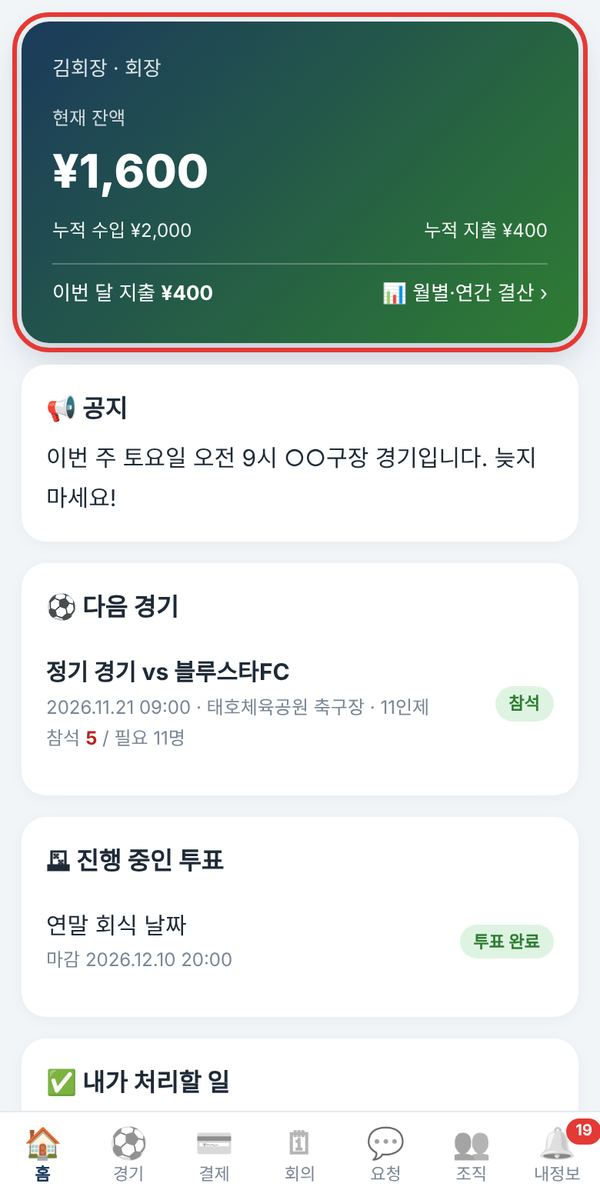
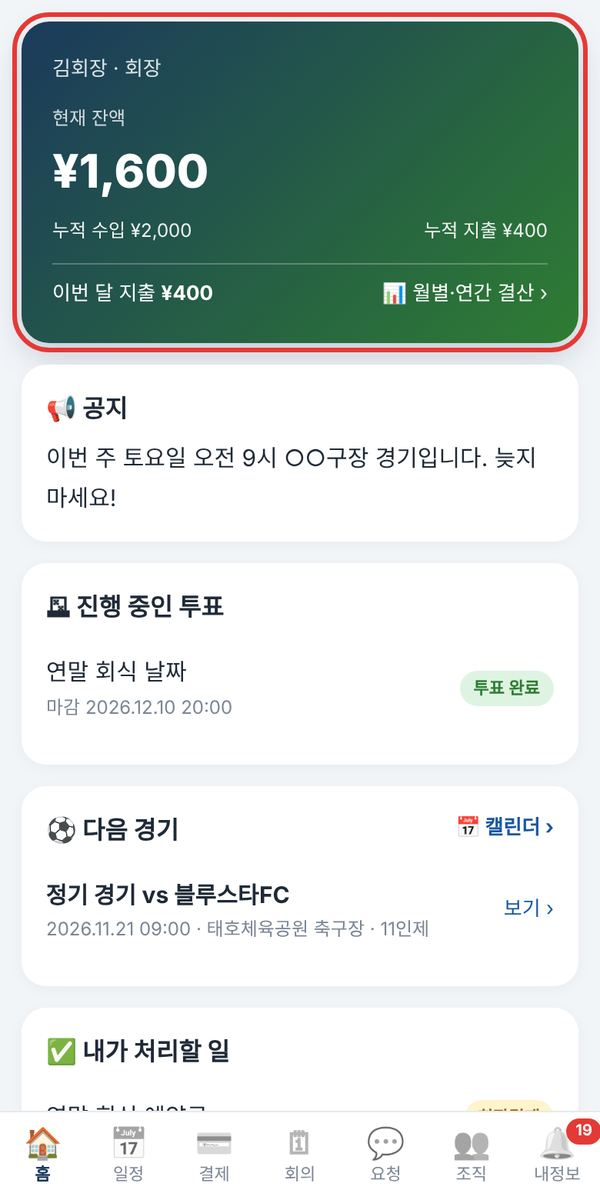
경기 일정 캘린더, 출석 체크 숨김(ATTEND 스위치)
Claude-Session: https://claude.ai/code/session_015HE4XVwfqT5PtJWveADa8Y

diff --git a/index.html b/index.html
@@ -82,7 +82,7 @@ nav a.on{color:var(--navy);font-weight:700}nav a.on b{filter:none;opacity:1}
 <div id="app"></div>
 <nav id="nav" style="display:none"><div class="in">
   <a href="#/" data-t="home"><b>🏠</b>홈</a>
-  <a href="#/matches" data-t="match"><b>⚽</b>경기</a>
+  <a href="#/matches" data-t="match"><b>📅</b>일정</a>
   <a href="#/pays" data-t="pay"><b>💳</b>결제</a>
   <a href="#/meets" data-t="meet"><b>🗓</b>회의</a>
   <a href="#/reqs" data-t="req"><b>💬</b>요청</a>
@@ -93,7 +93,7 @@ nav a.on{color:var(--navy);font-weight:700}nav a.on b{filter:none;opacity:1}
 <button id="lang" data-nt style="position:fixed;top:10px;right:10px;z-index:9;border:0;border-radius:99px;padding:6px 12px;font:600 13px/1.2 inherit;background:rgba(255,255,255,.92);color:#1B3A5C;box-shadow:0 2px 8px rgba(0,0,0,.15)"></button>
 <script>
 // ───── 중국어 번역 (한국어 ↔ 中文) ─────
-const I18N = {"홈": "首页", "경기": "比赛", "결제": "付款", "회의": "会议", "요청": "建议", "조직": "组织", "내정보": "我的", "축구회": "足球会", "회비 · 결제 · 회의 · 회칙": "会费 · 付款 · 会议 · 会规", "로그인": "登录", "로그아웃": "退出登录", "가입 신청": "申请加入", "이름 (실명)": "姓名（实名）", "비밀번호 (4자 이상)": "密码（至少4位）", "비밀번호 확인": "确认密码", "예) 김민수": "例）张伟", "비밀번호를 잊었다면 회장에게 초기화를 요청하세요.": "忘记密码请联系会长重置。", "한 번 로그인하면 로그아웃 전까지 자동으로 로그인됩니다. 다른 기기에서 로그인하면 이전 기기는 로그아웃됩니다.": "登录一次后，在退出前会自动登录。在其他设备登录时，之前的设备会自动退出。", "가입 신청 후 회장이 승인하면 로그인할 수 있습니다. 첫 가입자는 자동으로 회장이 됩니다.": "申请后经会长批准即可登录。第一个注册的人自动成为会长。", "가입 신청 완료! 회장 승인 후 로그인하세요": "申请完成！会长批准后即可登录", "비밀번호가 서로 다릅니다": "两次密码不一致", "📖 사용 설명서": "📖 使用说明（韩文）", "불러오는 중…": "加载中…", "불러오지 못했습니다": "加载失败", "다시 시도": "重试", "인터넷 연결을 확인하세요": "请检查网络连接", "서버가 잠시 응답하지 않습니다. 잠시 후 다시 시도하세요": "服务器暂时无响应，请稍后再试", "요청 오류 (": "请求错误 (", "업로드 중…": "上传中…", "업로드 완료": "上传完成", "업로드 실패 (": "上传失败 (", "파일이 20MB를 넘습니다": "文件超过20MB", "복사했습니다. 위챗 단톡방에 붙여넣으세요": "已复制，请粘贴到微信群", "아래 글을 길게 눌러 복사하세요": "长按下面的文字复制", "닫기": "关闭", "위챗 단톡방 공유 문구 복사": "复制分享文字（微信群）", "처리 기록": "处理记录", "처리 완료": "处理完成", "저장했습니다": "已保存", "삭제": "删除", "열기": "打开", "보기 ›": "查看 ›", "전체 ›": "全部 ›", "전체": "全部", "내용": "内容", "제목": "标题", "상태": "状态", "번호": "编号", "회장": "会长", "부회장": "副会长", "총무": "总务", "감독": "主教练", "코치": "教练", "회원": "会员", "본인": "本人", "👥 운영진": "👥 管理团队", "회장결재": "待会长审批", "부회장결재": "待副会长审批", "부회장검토": "待副会长审核", "지급대기": "待付款", "지급완료": "已付款", "승인대기": "待审批", "승인": "批准", "반려": "驳回", "접수": "已提交", "처리중": "处理中", "완료": "已完成", "참석": "出席", "불참": "缺席", "미정": "待定", "수입": "收入", "지출": "支出", "입금": "入账", "신청": "申请", "대기": "等待", "검토 중": "审核中", "건너뜀": "跳过", "결재": "审批", "구장": "场地", "음료": "饮料", "장비": "装备", "회식": "聚餐", "유니폼": "球衣", "기타": "其他", "회비": "会费", "찬조": "赞助", "11인제": "11人制", "9인제": "9人制", "8인제": "8人制", "7인제": "7人制", "6인제": "6人制", "5인제 (풋살)": "5人制（室内）", "결제안 신청": "提交付款申请", "수입 등록": "登记收入", "안건 상신": "提交议题", "지급": "付款", "마감": "截止", "현재 잔액": "当前余额", "총 수입": "总收入", "총 지출": "总支出", "📢 공지": "📢 公告", "✅ 내가 처리할 일": "✅ 待我处理", "🗓 최근 확정 회의": "🗓 最近确定的会议", "💸 최근 지출": "💸 最近支出", "아직 확정된 회의가 없습니다": "还没有确定的会议", "아직 지출 내역이 없습니다": "还没有支出记录", "⚽ 다음 경기": "⚽ 下一场比赛", "🗳 진행 중인 투표": "🗳 进行中的投票", "투표 완료": "已投票", "투표하기 ›": "去投票 ›", "출석 체크 ›": "签到 ›", "체크 ›": "签到 ›", "+ 결제안": "+ 付款申请", "+ 수입 등록": "+ 登记收入", "내역이 없습니다": "没有记录", "💰 수입 등록": "💰 登记收入", "📝 결제안 신청": "📝 付款申请", "예) 11월 회비": "例）11月会费", "예) 11월 셋째 주 구장 대여": "例）11月第三周场地租赁", "항목": "类别", "금액 (위안)": "金额（元）", "메모": "备注", "사유": "事由", "상세 내용": "详细内容", "입금 캡처": "入账截图", "영수증·견적": "收据·报价", "사진": "照片", "결제안 올리기": "提交付款申请", "결재 순서: 회장 → 부회장 → 총무(지급). 올리면 회장에게 알림이 갑니다.": "审批顺序：会长 → 副会长 → 总务（付款）。提交后会通知会长。", "등록 완료": "登记完成", "작성": "提交", "반려 사유:": "驳回理由：", "🧾 송금 증빙": "🧾 转账凭证", "결재라인": "审批流程", "총무 지급": "总务付款", "회장 결재": "会长审批", "부회장 결재": "副会长审批", "개인 위챗으로 송금한 뒤 송금 캡처를 첨부하고 지급완료를 누르세요.": "用个人微信转账后，上传转账截图并点击“已付款”。", "송금 캡처를 첨부하세요": "请上传转账截图", "지급완료 처리할까요?": "确认已付款吗？", "승인할까요?": "确认批准吗？", "반려 사유를 입력하세요": "请输入驳回理由", "결제안은 운영진만 올릴 수 있습니다": "只有管理团队可以提交付款申请", "+ 회의 안건": "+ 会议议题", "등록된 회의가 없습니다": "没有会议", "🗓 회의 안건 올리기": "🗓 提交会议议题", "회의 제목": "会议标题", "회의 날짜": "会议日期", "예) 12월 정기 운영회의": "例）12月例行管理会议", "안건 내용": "议题内容", "첨부 파일 (사진·PDF·문서)": "附件（照片·PDF·文档）", "+ 파일 첨부": "+ 添加附件", "결재 순서: 부회장 → 회장. 회장이 승인하면 전체 회원에게 공개되고 알림이 갑니다.": "审批顺序：副会长 → 会长。会长批准后向全体会员公开并通知。", "결재 올리기": "提交审批", "결재 요청 완료": "已提交审批", "안건": "议题", "📝 회의록": "📝 会议记录", "📝회의록": "📝会议记录", "‹ 이전": "‹ 上一页", "누적 수입": "累计收入", "누적 지출": "累计支出", "이번 달 지출": "本月支出", "📊 월별·연간 결산 ›": "📊 月度·年度结算 ›", "📊 월별·연간 결산 보기": "📊 查看月度·年度结算", "📊 결산": "📊 结算", "연간": "全年", "기간 지출": "期间支出", "기간 수입": "期间收入", "기간 순액": "期间净额", "💰 잔액 흐름": "💰 余额变化", "전기 이월": "上期结转", "기말 잔액": "期末余额", "📂 항목별 지출": "📂 分类支出", "이 기간 지출이 없습니다": "该期间没有支出", "월을 누르면 그 달 내역을 볼 수 있습니다.": "点击月份可查看当月明细。", "이 기간 내역 엑셀(CSV) 내려받기": "下载该期间明细（CSV）", "📤 결산 요약 복사 (위챗에 공유)": "📤 复制结算摘要（分享到微信）", "지급완료된 건만, 지급한 날짜 기준으로 계산합니다. 전기 이월 = 이 기간 이전까지의 잔액.": "只统计已付款的项目，按付款日期计算。上期结转 = 该期间之前的余额。", "년 전체": "年 全年", " 결산": " 结算", "내역 (": "明细 (", "다음 ›": "下一页 ›", "이동 ›": "前往 ›", "작성·수정": "编写·修改", "아직 회의록이 없습니다": "还没有会议记录", "회의 결과를 입력하세요": "请输入会议结果", "저장하고 회원에게 알림": "保存并通知会员", "회의록 저장": "会议记录已保存", "회의 안건은 운영진만 올릴 수 있습니다": "只有管理团队可以提交会议议题", "🗳 투표": "🗳 投票", "아직 투표가 없습니다": "还没有投票", "+ 투표 만들기": "+ 发起投票", "투표 제목": "投票标题", "예) 연말 회식 날짜": "例）年末聚餐日期", "선택지 (한 줄에 하나씩)": "选项（每行一个）", "마감 시간 (선택)": "截止时间（可选）", "투표 시작하고 회원에게 알림": "开始投票并通知会员", "기명 투표입니다. 누가 무엇을 골랐는지 모든 회원에게 보입니다.": "这是记名投票，所有会员都能看到谁选了什么。", "투표를 시작했습니다": "投票已开始", "🗳 기명 투표": "🗳 记名投票", "마감됨": "已截止", "진행 중": "进行中", "결과": "结果", "하나를 골라 누르세요": "请选择一项", "내 선택 (다시 눌러 바꿀 수 있음)": "我的选择（可重新点击更改）", "모두 투표했습니다 🎉": "全部已投票 🎉", "🙋 아직 투표 안 한 사람 (": "🙋 未投票 (", "투표 마감하기": "截止投票", "회의로 돌아가기": "返回会议", "📤 투표 링크 복사 (위챗에 공유)": "📤 复制投票链接（分享到微信）", "투표했습니다": "已投票", "투표를 마감할까요? 마감 후에는 바꿀 수 없습니다.": "确定截止投票吗？截止后不能更改。", "마감했습니다": "已截止", "없는 투표입니다": "投票不存在", "🗳 투표해 주세요:": "🗳 请投票：", "명 참여": "人参与", "예정된 경기가 없습니다": "没有即将进行的比赛", "지난 경기": "往期比赛", "+ 경기 등록": "+ 登记比赛", "⚽ 경기 등록": "⚽ 登记比赛", "✏ 경기 수정": "✏ 修改比赛", "경기 이름": "比赛名称", "예) 정기 경기, 친선전": "例）例行比赛、友谊赛", "상대팀 (선택)": "对手（可选）", "예) ○○FC": "例）○○FC", "날짜·시작 시간": "日期·开始时间", "경기 방식": "比赛形式", "필요 인원 (명)": "所需人数", "구장 이름": "场地名称", "예) ○○체육공원 축구장": "例）○○体育公园足球场", "주소 (선택)": "地址（可选）", "예) ○○구 ○○로 123": "例）○○区○○路123号", "고덕지도 공유 링크 (선택)": "高德地图分享链接（可选）", "고덕지도 앱 → 장소 → 공유 → 링크 복사": "高德地图 → 地点 → 分享 → 复制链接", "링크를 비워 두면 구장 이름·주소로 고덕지도에서 자동 검색됩니다.": "不填链接时，会用场地名称和地址在高德地图自动搜索。", "출석 체크 마감 (선택, 비우면 경기 시작 때 마감)": "签到截止（可选，不填则比赛开始时截止）", "메모 (선택)": "备注（可选）", "예) 흰색·검은색 상의 준비, 8시 30분까지 도착": "例）准备白色·黑色上衣，8点30分前到达", "수정 저장": "保存修改", "등록하고 회원에게 알림": "登记并通知会员", "날짜·시간을 입력하세요": "请输入日期和时间", "수정했습니다": "已修改", "경기를 등록했습니다": "比赛已登记", "운영진만 경기를 등록할 수 있습니다": "只有管理团队可以登记比赛", "📍 구장": "📍 场地", "구장 미정": "场地待定", "🗺 고덕지도에서 위치 보기": "🗺 在高德地图查看位置", "✋ 출석 체크": "✋ 签到", "아직 응답 안 함": "尚未回复", "내 응답:": "我的回复：", "출석 체크가 마감되었습니다": "签到已截止", "출석 마감": "签到已截止", "경기 시작 때 마감": "比赛开始时截止", "✅ 참석": "✅ 出席", "❌ 불참": "❌ 缺席", "🤔 미정": "🤔 待定", "🙋 미응답": "🙋 未回复", "인원 충족 ✅": "人数已满 ✅", "명 부족": "人不足", "✏ 수정": "✏ 修改", "📤 출석 체크 링크 복사 (위챗에 공유)": "📤 复制签到链接（分享到微信）", "(으)로 체크했습니다": " 已签到", "이 경기를 삭제할까요? 출석 기록도 함께 지워집니다.": "确定删除这场比赛吗？签到记录也会一起删除。", "삭제했습니다": "已删除", "없는 경기입니다": "比赛不存在", "⚽ 출석 체크해 주세요:": "⚽ 请签到：", "정기 경기": "例行比赛", "/ 필요": "/ 需要", "· 필요": "· 需要", "현재 참석": "当前出席", "💬 요청사항": "💬 建议·请求", "운영진에게 건의·요청할 내용을 남겨 주세요. 운영진이 답변하면 알림이 갑니다.": "请给管理团队留下建议或请求。管理团队回复后会通知您。", "+ 요청하기": "+ 提交建议", "예) 토요일 경기 시간 변경 요청": "例）申请更改周六比赛时间", "자세한 내용": "详细内容", "보내기": "发送", "요청을 보냈습니다": "已发送", "아직 요청사항이 없습니다": "还没有建议", "답변 (운영진만 보이는 입력칸)": "回复（仅管理团队可见的输入框）", "답변 저장": "保存回复", "답변 ·": "回复 ·", "📜 회칙": "📜 会规", "아직 등록된 회칙이 없습니다": "还没有上传会规", "새 회칙으로 교체": "更换新会规", "회칙 파일 업로드": "上传会规文件", "회칙 등록 완료": "会规已上传", "운영진 정보가 없습니다": "没有管理团队信息", "⚽ 회원": "⚽ 会员", "🔔 알림": "🔔 通知", "알림이 없습니다": "没有通知", "📢 홈 공지": "📢 首页公告", "예) 이번 주 토요일 오전 9시 ○○구장": "例）本周六上午9点 ○○场地", "공지 저장": "保存公告", "🛠 회원 관리": "🛠 会员管理", "가입 승인 대기": "等待批准", "거절": "拒绝", "🤝 회장 인계": "🤝 会长交接", "새 회장을 선택하면 권한이 넘어가고 나는 일반 회원이 됩니다.": "选择新会长后，权限会转交，我将成为普通会员。", "새 회장 선택": "选择新会长", "회장 인계하기": "交接会长", "새 회장을 선택하세요": "请选择新会长", "인계 완료": "交接完成", "사이트 관리 계정도 넘겨주세요 (고장 대비)": "也请交接网站管理账号（以防故障）", "관리 메모 (회장에게만 보이고 인계 시 함께 넘어감)": "管理备注（仅会长可见，交接时一起转交）", "예) GitHub 조직 이름, Supabase 프로젝트 이름, 비상 연락처": "例）GitHub组织名、Supabase项目名、紧急联系方式", "메모 저장": "保存备注", "⚙ 설정": "⚙ 设置", "결제 내역 엑셀(CSV) 내려받기": "下载付款记录（CSV）", "비밀번호 변경": "修改密码", "로그아웃할까요?": "确定退出登录吗？", "💡 브라우저 메뉴의": "💡 在浏览器菜单中点击", "홈 화면에 추가": "添加到主屏幕", "를 누르면 앱처럼 쓸 수 있습니다.": "，就能像App一样使用。", "현재 비밀번호": "当前密码", "새 비밀번호 (4자 이상)": "新密码（至少4位）", "비밀번호 변경 완료": "密码已修改", "변경 완료": "修改完成", "삭제 완료": "删除完成", "위챗 안에서는 저장이 안 될 수 있어요. 브라우저에서 열어 주세요": "在微信内可能无法保存，请用浏览器打开", "님을 삭제할까요?": " 确定删除吗？", "님에게 회장을 인계할까요?\n나는 일반 회원이 됩니다.": " — 确定交接会长吗？\n我将成为普通会员。", "님\n1: 직책 이름 변경 (예: 감독, 경기이사)\n2: 비밀번호 초기화\n3: 회원 삭제\n번호를 입력하세요": "\n1：修改职务名称\n2：重置密码\n3：删除会员\n请输入编号", "직책 이름 (비우면 삭제)": "职务名称（留空则删除）", "새 임시 비밀번호 (4자 이상)": "新临时密码（至少4位）", "님의 비밀번호가": " 的密码已改为", "(으)로 바뀌었습니다. 본인에게 알려 주세요.": "，请告知本人。", "가입 승인": "批准加入", "님이 가입을 신청했습니다": " 申请加入", "결제안 승인 요청": "付款申请待审批", "결제안 최종 승인": "付款申请已最终批准", "결제안 반려": "付款申请被驳回", "송금 요청": "请转账", "지급 완료": "已付款", "회의 안건 결재 요청": "会议议题待审批", "회의 안건 확정": "会议议题已确定", "회의 안건 반려": "会议议题被驳回", "회의록 등록": "会议记录已发布", "회칙 갱신": "会规已更新", "역할 변경": "角色变更", "(으)로 지정되었습니다": " 已被指定", "축구회 가입이 승인되었습니다": "已批准加入足球会", "회원 요청사항": "会员建议", "요청사항 답변 (": "建议已回复 (", "투표 시작": "投票开始", "투표 마감": "投票截止", "경기 일정 등록 · 출석 체크": "比赛已登记 · 请签到", "경기 정보 변경": "比赛信息变更", "새 기기에서 로그인됨": "在新设备登录", "이전 기기는 자동 로그아웃되었습니다. 본인이 아니라면 바로 비밀번호를 바꾸세요": "之前的设备已自动退出。如果不是本人操作，请立即修改密码", "다른 기기에서 로그인했거나 로그인이 해제되었습니다. 다시 로그인해 주세요": "已在其他设备登录或登录已失效，请重新登录", "이름 또는 비밀번호가 틀립니다": "姓名或密码错误", "회장 승인 대기 중입니다": "等待会长批准", "이름과 비밀번호(4자 이상)를 입력하세요": "请输入姓名和密码（至少4位）", "이미 등록된 이름입니다": "该姓名已注册", "제목과 금액을 입력하세요": "请输入标题和金额", "제목을 입력하세요": "请输入标题", "없는 항목입니다": "项目不存在", "수입은 회장·총무만 등록할 수 있습니다": "只有会长·总务可以登记收入", "지금은 결재할 수 있는 단계가 아닙니다": "当前不是您的审批步骤", "총무만 승인된 건을 지급완료할 수 있습니다": "只有总务可以将已批准的申请标为已付款", "아직 확정되지 않은 회의입니다": "会议尚未确定", "부회장 결재 단계입니다": "现在是副会长审批步骤", "회장 결재 단계입니다": "现在是会长审批步骤", "결재할 수 없는 상태입니다": "当前状态无法审批", "운영진만 회의록을 등록할 수 있습니다": "只有管理团队可以发布会议记录", "확정된 회의에만 회의록을 등록할 수 있습니다": "只能为已确定的会议发布记录", "회장·총무만 회칙을 등록할 수 있습니다": "只有会长·总务可以上传会规", "회장·총무만 공지를 수정할 수 있습니다": "只有会长·总务可以修改公告", "회장만 수정할 수 있습니다": "只有会长可以修改", "회장만 회원을 관리할 수 있습니다": "只有会长可以管理会员", "본인 역할은 회장 인계로만 바꿀 수 있습니다": "本人角色只能通过会长交接更改", "잘못된 역할": "角色错误", "비밀번호는 4자 이상": "密码至少4位", "회장만 삭제할 수 있습니다": "只有会长可以删除", "본인은 삭제할 수 없습니다": "不能删除本人", "현재 비밀번호가 틀립니다": "当前密码错误", "새 비밀번호는 4자 이상": "新密码至少4位", "알 수 없는 요청": "未知请求", "알 수 없는 처리": "未知操作", "운영진만 투표를 만들 수 있습니다": "只有管理团队可以发起投票", "확정된 회의에서만 투표를 만들 수 있습니다": "只能在已确定的会议中发起投票", "투표 제목과 선택지(2개 이상)를 입력하세요": "请输入投票标题和选项（至少2个）", "마감된 투표입니다": "投票已截止", "잘못된 선택": "选择错误", "운영진만 마감할 수 있습니다": "只有管理团队可以截止", "경기 이름과 날짜·시간을 입력하세요": "请输入比赛名称和日期时间", "운영진만 삭제할 수 있습니다": "只有管理团队可以删除", "운영진만 답변할 수 있습니다": "只有管理团队可以回复"};
+const I18N = {"홈": "首页", "경기": "比赛", "결제": "付款", "회의": "会议", "요청": "建议", "조직": "组织", "내정보": "我的", "축구회": "足球会", "회비 · 결제 · 회의 · 회칙": "会费 · 付款 · 会议 · 会规", "로그인": "登录", "로그아웃": "退出登录", "가입 신청": "申请加入", "이름 (실명)": "姓名（实名）", "비밀번호 (4자 이상)": "密码（至少4位）", "비밀번호 확인": "确认密码", "예) 김민수": "例）张伟", "비밀번호를 잊었다면 회장에게 초기화를 요청하세요.": "忘记密码请联系会长重置。", "한 번 로그인하면 로그아웃 전까지 자동으로 로그인됩니다. 다른 기기에서 로그인하면 이전 기기는 로그아웃됩니다.": "登录一次后，在退出前会自动登录。在其他设备登录时，之前的设备会自动退出。", "가입 신청 후 회장이 승인하면 로그인할 수 있습니다. 첫 가입자는 자동으로 회장이 됩니다.": "申请后经会长批准即可登录。第一个注册的人自动成为会长。", "가입 신청 완료! 회장 승인 후 로그인하세요": "申请完成！会长批准后即可登录", "비밀번호가 서로 다릅니다": "两次密码不一致", "📖 사용 설명서": "📖 使用说明（韩文）", "불러오는 중…": "加载中…", "불러오지 못했습니다": "加载失败", "다시 시도": "重试", "인터넷 연결을 확인하세요": "请检查网络连接", "서버가 잠시 응답하지 않습니다. 잠시 후 다시 시도하세요": "服务器暂时无响应，请稍后再试", "요청 오류 (": "请求错误 (", "업로드 중…": "上传中…", "업로드 완료": "上传完成", "업로드 실패 (": "上传失败 (", "파일이 20MB를 넘습니다": "文件超过20MB", "복사했습니다. 위챗 단톡방에 붙여넣으세요": "已复制，请粘贴到微信群", "아래 글을 길게 눌러 복사하세요": "长按下面的文字复制", "닫기": "关闭", "위챗 단톡방 공유 문구 복사": "复制分享文字（微信群）", "처리 기록": "处理记录", "처리 완료": "处理完成", "저장했습니다": "已保存", "삭제": "删除", "열기": "打开", "보기 ›": "查看 ›", "전체 ›": "全部 ›", "전체": "全部", "내용": "内容", "제목": "标题", "상태": "状态", "번호": "编号", "회장": "会长", "부회장": "副会长", "총무": "总务", "감독": "主教练", "코치": "教练", "회원": "会员", "본인": "本人", "👥 운영진": "👥 管理团队", "회장결재": "待会长审批", "부회장결재": "待副会长审批", "부회장검토": "待副会长审核", "지급대기": "待付款", "지급완료": "已付款", "승인대기": "待审批", "승인": "批准", "반려": "驳回", "접수": "已提交", "처리중": "处理中", "완료": "已完成", "참석": "出席", "불참": "缺席", "미정": "待定", "수입": "收入", "지출": "支出", "입금": "入账", "신청": "申请", "대기": "等待", "검토 중": "审核中", "건너뜀": "跳过", "결재": "审批", "구장": "场地", "음료": "饮料", "장비": "装备", "회식": "聚餐", "유니폼": "球衣", "기타": "其他", "회비": "会费", "찬조": "赞助", "11인제": "11人制", "9인제": "9人制", "8인제": "8人制", "7인제": "7人制", "6인제": "6人制", "5인제 (풋살)": "5人制（室内）", "결제안 신청": "提交付款申请", "수입 등록": "登记收入", "안건 상신": "提交议题", "지급": "付款", "마감": "截止", "현재 잔액": "当前余额", "총 수입": "总收入", "총 지출": "总支出", "📢 공지": "📢 公告", "✅ 내가 처리할 일": "✅ 待我处理", "🗓 최근 확정 회의": "🗓 最近确定的会议", "💸 최근 지출": "💸 最近支出", "아직 확정된 회의가 없습니다": "还没有确定的会议", "아직 지출 내역이 없습니다": "还没有支出记录", "⚽ 다음 경기": "⚽ 下一场比赛", "🗳 진행 중인 투표": "🗳 进行中的投票", "투표 완료": "已投票", "투표하기 ›": "去投票 ›", "출석 체크 ›": "签到 ›", "체크 ›": "签到 ›", "+ 결제안": "+ 付款申请", "+ 수입 등록": "+ 登记收入", "내역이 없습니다": "没有记录", "💰 수입 등록": "💰 登记收入", "📝 결제안 신청": "📝 付款申请", "예) 11월 회비": "例）11月会费", "예) 11월 셋째 주 구장 대여": "例）11月第三周场地租赁", "항목": "类别", "금액 (위안)": "金额（元）", "메모": "备注", "사유": "事由", "상세 내용": "详细内容", "입금 캡처": "入账截图", "영수증·견적": "收据·报价", "사진": "照片", "결제안 올리기": "提交付款申请", "결재 순서: 회장 → 부회장 → 총무(지급). 올리면 회장에게 알림이 갑니다.": "审批顺序：会长 → 副会长 → 总务（付款）。提交后会通知会长。", "등록 완료": "登记完成", "작성": "提交", "반려 사유:": "驳回理由：", "🧾 송금 증빙": "🧾 转账凭证", "결재라인": "审批流程", "총무 지급": "总务付款", "회장 결재": "会长审批", "부회장 결재": "副会长审批", "개인 위챗으로 송금한 뒤 송금 캡처를 첨부하고 지급완료를 누르세요.": "用个人微信转账后，上传转账截图并点击“已付款”。", "송금 캡처를 첨부하세요": "请上传转账截图", "지급완료 처리할까요?": "确认已付款吗？", "승인할까요?": "确认批准吗？", "반려 사유를 입력하세요": "请输入驳回理由", "결제안은 운영진만 올릴 수 있습니다": "只有管理团队可以提交付款申请", "+ 회의 안건": "+ 会议议题", "등록된 회의가 없습니다": "没有会议", "🗓 회의 안건 올리기": "🗓 提交会议议题", "회의 제목": "会议标题", "회의 날짜": "会议日期", "예) 12월 정기 운영회의": "例）12月例行管理会议", "안건 내용": "议题内容", "첨부 파일 (사진·PDF·문서)": "附件（照片·PDF·文档）", "+ 파일 첨부": "+ 添加附件", "결재 순서: 부회장 → 회장. 회장이 승인하면 전체 회원에게 공개되고 알림이 갑니다.": "审批顺序：副会长 → 会长。会长批准后向全体会员公开并通知。", "결재 올리기": "提交审批", "결재 요청 완료": "已提交审批", "안건": "议题", "📝 회의록": "📝 会议记录", "📝회의록": "📝会议记录", "‹ 이전": "‹ 上一页", "일정": "日程", "📅 캘린더 ›": "📅 日历 ›", "다가오는 경기": "即将进行的比赛", "이 날은 경기가 없습니다": "这天没有比赛", "📤 경기 일정 공유 (위챗)": "📤 分享比赛日程（微信）", "📅 캘린더로 돌아가기": "📅 返回日历", "⚽ 경기 일정:": "⚽ 比赛日程：", "경기 일정 등록": "比赛日程已登记", "초록 점이 있는 날을 누르면 그날 경기를 볼 수 있습니다.": "点击带绿点的日期可查看当天比赛。", "누적 수입": "累计收入", "누적 지출": "累计支出", "이번 달 지출": "本月支出", "📊 월별·연간 결산 ›": "📊 月度·年度结算 ›", "📊 월별·연간 결산 보기": "📊 查看月度·年度结算", "📊 결산": "📊 结算", "연간": "全年", "기간 지출": "期间支出", "기간 수입": "期间收入", "기간 순액": "期间净额", "💰 잔액 흐름": "💰 余额变化", "전기 이월": "上期结转", "기말 잔액": "期末余额", "📂 항목별 지출": "📂 分类支出", "이 기간 지출이 없습니다": "该期间没有支出", "월을 누르면 그 달 내역을 볼 수 있습니다.": "点击月份可查看当月明细。", "이 기간 내역 엑셀(CSV) 내려받기": "下载该期间明细（CSV）", "📤 결산 요약 복사 (위챗에 공유)": "📤 复制结算摘要（分享到微信）", "지급완료된 건만, 지급한 날짜 기준으로 계산합니다. 전기 이월 = 이 기간 이전까지의 잔액.": "只统计已付款的项目，按付款日期计算。上期结转 = 该期间之前的余额。", "년 전체": "年 全年", " 결산": " 结算", "내역 (": "明细 (", "다음 ›": "下一页 ›", "이동 ›": "前往 ›", "작성·수정": "编写·修改", "아직 회의록이 없습니다": "还没有会议记录", "회의 결과를 입력하세요": "请输入会议结果", "저장하고 회원에게 알림": "保存并通知会员", "회의록 저장": "会议记录已保存", "회의 안건은 운영진만 올릴 수 있습니다": "只有管理团队可以提交会议议题", "🗳 투표": "🗳 投票", "아직 투표가 없습니다": "还没有投票", "+ 투표 만들기": "+ 发起投票", "투표 제목": "投票标题", "예) 연말 회식 날짜": "例）年末聚餐日期", "선택지 (한 줄에 하나씩)": "选项（每行一个）", "마감 시간 (선택)": "截止时间（可选）", "투표 시작하고 회원에게 알림": "开始投票并通知会员", "기명 투표입니다. 누가 무엇을 골랐는지 모든 회원에게 보입니다.": "这是记名投票，所有会员都能看到谁选了什么。", "투표를 시작했습니다": "投票已开始", "🗳 기명 투표": "🗳 记名投票", "마감됨": "已截止", "진행 중": "进行中", "결과": "结果", "하나를 골라 누르세요": "请选择一项", "내 선택 (다시 눌러 바꿀 수 있음)": "我的选择（可重新点击更改）", "모두 투표했습니다 🎉": "全部已投票 🎉", "🙋 아직 투표 안 한 사람 (": "🙋 未投票 (", "투표 마감하기": "截止投票", "회의로 돌아가기": "返回会议", "📤 투표 링크 복사 (위챗에 공유)": "📤 复制投票链接（分享到微信）", "투표했습니다": "已投票", "투표를 마감할까요? 마감 후에는 바꿀 수 없습니다.": "确定截止投票吗？截止后不能更改。", "마감했습니다": "已截止", "없는 투표입니다": "投票不存在", "🗳 투표해 주세요:": "🗳 请投票：", "명 참여": "人参与", "예정된 경기가 없습니다": "没有即将进行的比赛", "지난 경기": "往期比赛", "+ 경기 등록": "+ 登记比赛", "⚽ 경기 등록": "⚽ 登记比赛", "✏ 경기 수정": "✏ 修改比赛", "경기 이름": "比赛名称", "예) 정기 경기, 친선전": "例）例行比赛、友谊赛", "상대팀 (선택)": "对手（可选）", "예) ○○FC": "例）○○FC", "날짜·시작 시간": "日期·开始时间", "경기 방식": "比赛形式", "필요 인원 (명)": "所需人数", "구장 이름": "场地名称", "예) ○○체육공원 축구장": "例）○○体育公园足球场", "주소 (선택)": "地址（可选）", "예) ○○구 ○○로 123": "例）○○区○○路123号", "고덕지도 공유 링크 (선택)": "高德地图分享链接（可选）", "고덕지도 앱 → 장소 → 공유 → 링크 복사": "高德地图 → 地点 → 分享 → 复制链接", "링크를 비워 두면 구장 이름·주소로 고덕지도에서 자동 검색됩니다.": "不填链接时，会用场地名称和地址在高德地图自动搜索。", "출석 체크 마감 (선택, 비우면 경기 시작 때 마감)": "签到截止（可选，不填则比赛开始时截止）", "메모 (선택)": "备注（可选）", "예) 흰색·검은색 상의 준비, 8시 30분까지 도착": "例）准备白色·黑色上衣，8点30分前到达", "수정 저장": "保存修改", "등록하고 회원에게 알림": "登记并通知会员", "날짜·시간을 입력하세요": "请输入日期和时间", "수정했습니다": "已修改", "경기를 등록했습니다": "比赛已登记", "운영진만 경기를 등록할 수 있습니다": "只有管理团队可以登记比赛", "📍 구장": "📍 场地", "구장 미정": "场地待定", "🗺 고덕지도에서 위치 보기": "🗺 在高德地图查看位置", "✋ 출석 체크": "✋ 签到", "아직 응답 안 함": "尚未回复", "내 응답:": "我的回复：", "출석 체크가 마감되었습니다": "签到已截止", "출석 마감": "签到已截止", "경기 시작 때 마감": "比赛开始时截止", "✅ 참석": "✅ 出席", "❌ 불참": "❌ 缺席", "🤔 미정": "🤔 待定", "🙋 미응답": "🙋 未回复", "인원 충족 ✅": "人数已满 ✅", "명 부족": "人不足", "✏ 수정": "✏ 修改", "📤 출석 체크 링크 복사 (위챗에 공유)": "📤 复制签到链接（分享到微信）", "(으)로 체크했습니다": " 已签到", "이 경기를 삭제할까요? 출석 기록도 함께 지워집니다.": "确定删除这场比赛吗？签到记录也会一起删除。", "삭제했습니다": "已删除", "없는 경기입니다": "比赛不存在", "⚽ 출석 체크해 주세요:": "⚽ 请签到：", "정기 경기": "例行比赛", "/ 필요": "/ 需要", "· 필요": "· 需要", "현재 참석": "当前出席", "💬 요청사항": "💬 建议·请求", "운영진에게 건의·요청할 내용을 남겨 주세요. 운영진이 답변하면 알림이 갑니다.": "请给管理团队留下建议或请求。管理团队回复后会通知您。", "+ 요청하기": "+ 提交建议", "예) 토요일 경기 시간 변경 요청": "例）申请更改周六比赛时间", "자세한 내용": "详细内容", "보내기": "发送", "요청을 보냈습니다": "已发送", "아직 요청사항이 없습니다": "还没有建议", "답변 (운영진만 보이는 입력칸)": "回复（仅管理团队可见的输入框）", "답변 저장": "保存回复", "답변 ·": "回复 ·", "📜 회칙": "📜 会规", "아직 등록된 회칙이 없습니다": "还没有上传会规", "새 회칙으로 교체": "更换新会规", "회칙 파일 업로드": "上传会规文件", "회칙 등록 완료": "会规已上传", "운영진 정보가 없습니다": "没有管理团队信息", "⚽ 회원": "⚽ 会员", "🔔 알림": "🔔 通知", "알림이 없습니다": "没有通知", "📢 홈 공지": "📢 首页公告", "예) 이번 주 토요일 오전 9시 ○○구장": "例）本周六上午9点 ○○场地", "공지 저장": "保存公告", "🛠 회원 관리": "🛠 会员管理", "가입 승인 대기": "等待批准", "거절": "拒绝", "🤝 회장 인계": "🤝 会长交接", "새 회장을 선택하면 권한이 넘어가고 나는 일반 회원이 됩니다.": "选择新会长后，权限会转交，我将成为普通会员。", "새 회장 선택": "选择新会长", "회장 인계하기": "交接会长", "새 회장을 선택하세요": "请选择新会长", "인계 완료": "交接完成", "사이트 관리 계정도 넘겨주세요 (고장 대비)": "也请交接网站管理账号（以防故障）", "관리 메모 (회장에게만 보이고 인계 시 함께 넘어감)": "管理备注（仅会长可见，交接时一起转交）", "예) GitHub 조직 이름, Supabase 프로젝트 이름, 비상 연락처": "例）GitHub组织名、Supabase项目名、紧急联系方式", "메모 저장": "保存备注", "⚙ 설정": "⚙ 设置", "결제 내역 엑셀(CSV) 내려받기": "下载付款记录（CSV）", "비밀번호 변경": "修改密码", "로그아웃할까요?": "确定退出登录吗？", "💡 브라우저 메뉴의": "💡 在浏览器菜单中点击", "홈 화면에 추가": "添加到主屏幕", "를 누르면 앱처럼 쓸 수 있습니다.": "，就能像App一样使用。", "현재 비밀번호": "当前密码", "새 비밀번호 (4자 이상)": "新密码（至少4位）", "비밀번호 변경 완료": "密码已修改", "변경 완료": "修改完成", "삭제 완료": "删除完成", "위챗 안에서는 저장이 안 될 수 있어요. 브라우저에서 열어 주세요": "在微信内可能无法保存，请用浏览器打开", "님을 삭제할까요?": " 确定删除吗？", "님에게 회장을 인계할까요?\n나는 일반 회원이 됩니다.": " — 确定交接会长吗？\n我将成为普通会员。", "님\n1: 직책 이름 변경 (예: 감독, 경기이사)\n2: 비밀번호 초기화\n3: 회원 삭제\n번호를 입력하세요": "\n1：修改职务名称\n2：重置密码\n3：删除会员\n请输入编号", "직책 이름 (비우면 삭제)": "职务名称（留空则删除）", "새 임시 비밀번호 (4자 이상)": "新临时密码（至少4位）", "님의 비밀번호가": " 的密码已改为", "(으)로 바뀌었습니다. 본인에게 알려 주세요.": "，请告知本人。", "가입 승인": "批准加入", "님이 가입을 신청했습니다": " 申请加入", "결제안 승인 요청": "付款申请待审批", "결제안 최종 승인": "付款申请已最终批准", "결제안 반려": "付款申请被驳回", "송금 요청": "请转账", "지급 완료": "已付款", "회의 안건 결재 요청": "会议议题待审批", "회의 안건 확정": "会议议题已确定", "회의 안건 반려": "会议议题被驳回", "회의록 등록": "会议记录已发布", "회칙 갱신": "会规已更新", "역할 변경": "角色变更", "(으)로 지정되었습니다": " 已被指定", "축구회 가입이 승인되었습니다": "已批准加入足球会", "회원 요청사항": "会员建议", "요청사항 답변 (": "建议已回复 (", "투표 시작": "投票开始", "투표 마감": "投票截止", "경기 일정 등록 · 출석 체크": "比赛已登记 · 请签到", "경기 정보 변경": "比赛信息变更", "새 기기에서 로그인됨": "在新设备登录", "이전 기기는 자동 로그아웃되었습니다. 본인이 아니라면 바로 비밀번호를 바꾸세요": "之前的设备已自动退出。如果不是本人操作，请立即修改密码", "다른 기기에서 로그인했거나 로그인이 해제되었습니다. 다시 로그인해 주세요": "已在其他设备登录或登录已失效，请重新登录", "이름 또는 비밀번호가 틀립니다": "姓名或密码错误", "회장 승인 대기 중입니다": "等待会长批准", "이름과 비밀번호(4자 이상)를 입력하세요": "请输入姓名和密码（至少4位）", "이미 등록된 이름입니다": "该姓名已注册", "제목과 금액을 입력하세요": "请输入标题和金额", "제목을 입력하세요": "请输入标题", "없는 항목입니다": "项目不存在", "수입은 회장·총무만 등록할 수 있습니다": "只有会长·总务可以登记收入", "지금은 결재할 수 있는 단계가 아닙니다": "当前不是您的审批步骤", "총무만 승인된 건을 지급완료할 수 있습니다": "只有总务可以将已批准的申请标为已付款", "아직 확정되지 않은 회의입니다": "会议尚未确定", "부회장 결재 단계입니다": "现在是副会长审批步骤", "회장 결재 단계입니다": "现在是会长审批步骤", "결재할 수 없는 상태입니다": "当前状态无法审批", "운영진만 회의록을 등록할 수 있습니다": "只有管理团队可以发布会议记录", "확정된 회의에만 회의록을 등록할 수 있습니다": "只能为已确定的会议发布记录", "회장·총무만 회칙을 등록할 수 있습니다": "只有会长·总务可以上传会规", "회장·총무만 공지를 수정할 수 있습니다": "只有会长·总务可以修改公告", "회장만 수정할 수 있습니다": "只有会长可以修改", "회장만 회원을 관리할 수 있습니다": "只有会长可以管理会员", "본인 역할은 회장 인계로만 바꿀 수 있습니다": "本人角色只能通过会长交接更改", "잘못된 역할": "角色错误", "비밀번호는 4자 이상": "密码至少4位", "회장만 삭제할 수 있습니다": "只有会长可以删除", "본인은 삭제할 수 없습니다": "不能删除本人", "현재 비밀번호가 틀립니다": "当前密码错误", "새 비밀번호는 4자 이상": "新密码至少4位", "알 수 없는 요청": "未知请求", "알 수 없는 처리": "未知操作", "운영진만 투표를 만들 수 있습니다": "只有管理团队可以发起投票", "확정된 회의에서만 투표를 만들 수 있습니다": "只能在已确定的会议中发起投票", "투표 제목과 선택지(2개 이상)를 입력하세요": "请输入投票标题和选项（至少2个）", "마감된 투표입니다": "投票已截止", "잘못된 선택": "选择错误", "운영진만 마감할 수 있습니다": "只有管理团队可以截止", "경기 이름과 날짜·시간을 입력하세요": "请输入比赛名称和日期时间", "운영진만 삭제할 수 있습니다": "只有管理团队可以删除", "운영진만 답변할 수 있습니다": "只有管理团队可以回复"};
 const WDZ = { 일:'日', 월:'一', 화:'二', 수:'三', 목:'四', 금:'五', 토:'六' };
 const LANG = (() => {
   try { const s = localStorage.getItem('wxfc_lang'); if(s) return s } catch(e){}
@@ -265,8 +265,8 @@ async function home(){
     ${h.polls.length ? card('🗳 진행 중인 투표', h.polls.map(v => `<a class="it" href="#/vote/${v.id}"><div class="grow">${esc(v.title)}${v.deadline ? `<div class="sub">마감 ${fdt(v.deadline)}</div>` : ''}</div>${v.voted ? '<span class="tag t-done">투표 완료</span>' : '<span class="tag t-wait">투표하기 ›</span>'}</a>`).join('')) : ''}
     ${h.next ? card('⚽ 다음 경기', `<a class="it" href="#/match/${h.next.id}"><div class="grow"><b>${esc(h.next.title)}${h.next.opponent ? ' vs ' + esc(h.next.opponent) : ''}</b>
         <div class="sub">${fdt(h.next.starts_at)} · ${esc(h.next.venue || '구장 미정')} · ${esc(h.next.format)}</div>
-        <div class="sub">참석 <b style="color:${h.next.yes >= h.next.need ? '#2E7D32' : '#B3261E'}">${h.next.yes}</b> / 필요 ${h.next.need}명</div></div>
-        ${h.next.mine ? tag(h.next.mine) : '<span class="tag t-wait">출석 체크 ›</span>'}</a>`) : ''}
+        ${ATTEND ? `<div class="sub">참석 <b style="color:${h.next.yes >= h.next.need ? '#2E7D32' : '#B3261E'}">${h.next.yes}</b> / 필요 ${h.next.need}명</div>` : ''}</div>
+        ${!ATTEND ? '<span class="link">보기 ›</span>' : h.next.mine ? tag(h.next.mine) : '<span class="tag t-wait">출석 체크 ›</span>'}</a>`, '<a class="link" href="#/matches">📅 캘린더 ›</a>') : ''}
     ${h.todo.length ? card('✅ 내가 처리할 일', h.todo.map(t => `<a class="it" href="#/${t.kind}/${t.id}"><div class="grow">${esc(t.title)}</div>${tag(t.status)}</a>`).join('')) : ''}
     ${card('🗓 최근 확정 회의', h.meets.map(m => `<a class="it" href="#/meet/${m.id}"><div class="grow">${esc(m.title)}<div class="sub">${esc(m.mdate||'')}</div></div><span class="link">보기 ›</span></a>`).join('') || empty('아직 확정된 회의가 없습니다'))}
     ${card('💸 최근 지출', h.recent.map(p => `<a class="it" href="#/pay/${p.id}"><div class="grow">${esc(p.title)}<div class="sub">${esc(p.category)} · ${esc(p.applicant)}</div></div><span class="amt">${yen(p.amount)}</span></a>`).join('') || empty('아직 지출 내역이 없습니다'), '<a class="link" href="#/pays">전체 ›</a>')}`);
@@ -470,20 +470,42 @@ async function reportPage(){
 }
 
 // ───── 경기 일정 · 출석 체크 ─────
+// ★ 출석 체크 켜기/끄기: 다른 출석 미니프로그램을 쓰는 동안은 false (숨김). 다시 쓰려면 true 로 바꾸면 됩니다.
+const ATTEND = false;
 const FORMATS = [['11인제',11],['9인제',9],['8인제',8],['7인제',7],['6인제',6],['5인제 (풋살)',5],['기타',0]];
 const WD = ['일','월','화','수','목','금','토'];
 const mapUrl = m => m.map_url || `https://uri.amap.com/search?keyword=${encodeURIComponent((m.venue + ' ' + (m.address||'')).trim())}&src=wxfc&callnative=1`;
 const dateBox = s => { const d = new Date(s); return `<div class="date"><div class="dm">${d.getMonth()+1}월 (${WD[d.getDay()]})</div><div class="dd">${d.getDate()}</div></div>` };
 const hm = s => { const d = new Date(s); return String(d.getHours()).padStart(2,'0') + ':' + String(d.getMinutes()).padStart(2,'0') };
+let CY = null, CMo = 0, CSel = null;
+const ZH = () => typeof LANG != 'undefined' && LANG == 'zh';
+const WDH = () => ZH() ? ['日','一','二','三','四','五','六'] : WD;
+function calMove(n){ CMo += n; if(CMo < 0){ CMo = 11; CY-- } if(CMo > 11){ CMo = 0; CY++ } CSel = null; matchesPage() }
 async function matchesPage(){
-  const r = await api('matches'), up = r.list.filter(m => !m.past), past = r.list.filter(m => m.past);
+  const r = await api('matches'), up = r.list.filter(m => !m.past), now = new Date();
+  if(CY == null){ CY = now.getFullYear(); CMo = now.getMonth() }
+  const key = d => `${d.getFullYear()}-${d.getMonth()}-${d.getDate()}`, byDay = {};
+  r.list.forEach(m => { const k = key(new Date(m.starts_at)); (byDay[k] = byDay[k] || []).push(m) });
+  const pad = new Date(CY, CMo, 1).getDay(), days = new Date(CY, CMo + 1, 0).getDate(), tk = key(now);
+  let cells = '<div></div>'.repeat(pad);
+  for(let d = 1; d <= days; d++){
+    const k = `${CY}-${CMo}-${d}`, n = (byDay[k] || []).length, w = (pad + d - 1) % 7, on = CSel == k;
+    cells += `<div onclick="CSel='${k}';matchesPage()" style="aspect-ratio:1;border-radius:10px;display:flex;flex-direction:column;align-items:center;justify-content:center;cursor:pointer;font-size:14px;${on ? 'background:var(--navy);color:#fff;' : k == tk ? 'background:#EEF3F8;' : ''}${!on && w == 0 ? 'color:#C62828;' : ''}${!on && w == 6 ? 'color:#1957A6;' : ''}">
+      <span style="font-weight:${n ? 800 : 400}">${d}</span><span style="width:6px;height:6px;border-radius:50%;margin-top:3px;background:${n ? (on ? '#fff' : 'var(--green)') : 'transparent'}"></span></div>`;
+  }
+  const ym = ZH() ? `${CY}年 ${CMo + 1}月` : `${CY}년 ${CMo + 1}월`;
+  const sd = CSel ? CSel.split('-') : null, sl = sd ? (ZH() ? `${+sd[1] + 1}月 ${sd[2]}日` : `${+sd[1] + 1}월 ${sd[2]}일`) : '';
   const row = m => `<a class="card" style="display:flex;gap:12px;align-items:center" href="#/match/${m.id}">${dateBox(m.starts_at)}
       <div class="grow"><div style="font-weight:700">${esc(m.title)}${m.opponent ? ' vs ' + esc(m.opponent) : ''}</div>
       <div class="sub">${hm(m.starts_at)} · ${esc(m.venue || '구장 미정')} · ${esc(m.format)}</div>
-      <div class="sub">참석 <b style="color:${m.yes >= m.need ? '#2E7D32' : '#B3261E'}">${m.yes}</b> / ${m.need}명</div></div>
-      ${m.mine ? tag(m.mine) : m.past ? '' : '<span class="tag t-wait">체크 ›</span>'}</a>`;
-  V(`${up.map(row).join('') || empty('예정된 경기가 없습니다')}
-    ${past.length ? `<div class="ct" style="margin:20px 4px 10px;color:#7A8694">지난 경기</div>${past.map(row).join('')}` : ''}
+      ${ATTEND ? `<div class="sub">참석 <b style="color:${m.yes >= m.need ? '#2E7D32' : '#B3261E'}">${m.yes}</b> / ${m.need}명</div>` : ''}</div>
+      ${!ATTEND ? '<span class="link">›</span>' : m.mine ? tag(m.mine) : m.past ? '' : '<span class="tag t-wait">체크 ›</span>'}</a>`;
+  V(`<div class="card"><div class="ct"><button class="btn b-ghost sm" onclick="calMove(-1)">‹</button><span>📅 ${ym}</span><button class="btn b-ghost sm" onclick="calMove(1)">›</button></div>
+      <div style="display:grid;grid-template-columns:repeat(7,1fr);gap:4px;text-align:center;font-size:12px;color:#7A8694;margin-bottom:4px" data-nt>${WDH().map(w => `<div>${w}</div>`).join('')}</div>
+      <div style="display:grid;grid-template-columns:repeat(7,1fr);gap:4px;text-align:center" data-nt>${cells}</div>
+      <div class="hint" style="margin-top:8px">초록 점이 있는 날을 누르면 그날 경기를 볼 수 있습니다.</div></div>
+    ${CSel ? `<div class="ct" style="margin:16px 4px 10px" data-nt>${sl}</div>${(byDay[CSel] || []).map(row).join('') || empty('이 날은 경기가 없습니다')}` : ''}
+    <div class="ct" style="margin:20px 4px 10px">다가오는 경기</div>${up.map(row).join('') || empty('예정된 경기가 없습니다')}
     ${isStaff() ? '<div class="fabs"><a class="fab" href="#/match/new">+ 경기 등록</a></div>' : ''}`);
 }
 async function matchForm(id){
@@ -496,13 +518,13 @@ async function matchForm(id){
     <label>상대팀 (선택)</label><input id="go" value="${esc(m.opponent||'')}" placeholder="예) ○○FC">
     <label>날짜·시작 시간</label><input id="gs" type="datetime-local" value="${loc(m.starts_at)}">
     <label>경기 방식</label><select id="gf">${FORMATS.map(([f]) => `<option ${m.format==f?'selected':''}>${f}</option>`).join('')}</select>
-    <label>필요 인원 (명)</label><input id="gn" type="number" inputmode="numeric" value="${m.need}">
+    ${ATTEND ? `<label>필요 인원 (명)</label><input id="gn" type="number" inputmode="numeric" value="${m.need}">` : `<input id="gn" type="hidden" value="${m.need}">`}
     <label>구장 이름</label><input id="gv" list="vl" value="${esc(m.venue||'')}" placeholder="예) ○○체육공원 축구장">
     <datalist id="vl">${vs.map(v => `<option value="${esc(v.venue)}">`).join('')}</datalist>
     <label>주소 (선택)</label><input id="ga" value="${esc(m.address||'')}" placeholder="예) ○○구 ○○로 123">
     <label>고덕지도 공유 링크 (선택)</label><input id="gm" value="${esc(m.map_url||'')}" placeholder="고덕지도 앱 → 장소 → 공유 → 링크 복사">
     <div class="hint" style="margin:-4px 0 10px">링크를 비워 두면 구장 이름·주소로 고덕지도에서 자동 검색됩니다.</div>
-    <label>출석 체크 마감 (선택, 비우면 경기 시작 때 마감)</label><input id="gd" type="datetime-local" value="${loc(m.deadline)}">
+    ${ATTEND ? `<label>출석 체크 마감 (선택, 비우면 경기 시작 때 마감)</label><input id="gd" type="datetime-local" value="${loc(m.deadline)}">` : `<input id="gd" type="hidden" value="">`}
     <label>메모 (선택)</label><textarea id="gx" style="min-height:80px" placeholder="예) 흰색·검은색 상의 준비, 8시 30분까지 도착">${esc(m.memo||'')}</textarea>
     <button class="btn" id="gb">${id ? '수정 저장' : '등록하고 회원에게 알림'}</button></div>`);
   $('#gf').onchange = e => { const f = FORMATS.find(x => x[0] == e.target.value); if(f && f[1]) $('#gn').value = f[1] };
@@ -527,19 +549,21 @@ async function matchDetail(id){
   const chips = (t, a) => `<div class="sub" style="margin:10px 0 6px"><b>${t} ${a.length}명</b></div><div class="chips">${a.map(n => `<span class="chip">${esc(n)}</span>`).join('') || '<span class="sub">-</span>'}</div>`;
   V(`<div class="hero"><div class="hs">${d.getFullYear()}.${d.getMonth()+1}.${d.getDate()} (${WD[d.getDay()]}) ${hm(m.starts_at)}</div>
       <div class="ht" style="font-size:22px">${esc(m.title)}${m.opponent ? ' vs ' + esc(m.opponent) : ''}</div>
-      <div class="hr"><span>${esc(m.format)} · 필요 ${m.need}명</span><span>${m.open ? (m.deadline ? '마감 ' + fdt(m.deadline) : '경기 시작 때 마감') : '출석 마감'}</span></div></div>
+      <div class="hr"><span>${esc(m.format)}${ATTEND ? ` · 필요 ${m.need}명` : ''}</span><span>${!ATTEND ? '' : m.open ? (m.deadline ? '마감 ' + fdt(m.deadline) : '경기 시작 때 마감') : '출석 마감'}</span></div></div>
     ${card('📍 구장', `<div style="font-weight:700">${esc(m.venue || '구장 미정')}</div>${m.address ? `<div class="sub">${esc(m.address)}</div>` : ''}
       ${m.venue || m.address || m.map_url ? `<a class="btn b-ghost" style="text-align:center" href="${esc(mapUrl(m))}" target="_blank">🗺 고덕지도에서 위치 보기</a>` : ''}
       ${m.memo ? `<div class="txt" style="margin-top:12px;background:#FFF8E1;border-radius:10px;padding:10px 12px">📌 ${esc(m.memo)}</div>` : ''}`)}
-    <div class="card"><div class="ct"><span>✋ 출석 체크</span><span class="sub" style="margin:0">${r.mine ? '내 응답: ' + esc(r.mine) : '아직 응답 안 함'}</span></div>
+    ${ATTEND ? `<div class="card"><div class="ct"><span>✋ 출석 체크</span><span class="sub" style="margin:0">${r.mine ? '내 응답: ' + esc(r.mine) : '아직 응답 안 함'}</span></div>
       ${m.open ? `<div style="display:flex;gap:8px">${B('참석','b-green')}${B('불참','b-red')}${B('미정','')}</div>` : '<div class="sub">출석 체크가 마감되었습니다</div>'}
       <div style="margin-top:16px;background:#EEF1F4;border-radius:99px;height:12px;overflow:hidden"><div style="height:100%;width:${pc}%;background:${short > 0 ? '#FFC83D' : 'var(--green)'}"></div></div>
       <div style="display:flex;justify-content:space-between;margin-top:6px;font-size:14px"><span>참석 <b>${yes.length}</b> / 필요 ${m.need}명</span>
         <b style="color:${short > 0 ? '#B3261E' : '#2E7D32'}">${short > 0 ? short + '명 부족' : '인원 충족 ✅' + (short < 0 ? ' (+' + (-short) + ')' : '')}</b></div>
-      ${chips('✅ 참석', yes)}${chips('❌ 불참', no)}${chips('🤔 미정', maybe)}${chips('🙋 미응답', r.missing)}</div>
+      ${chips('✅ 참석', yes)}${chips('❌ 불참', no)}${chips('🤔 미정', maybe)}${chips('🙋 미응답', r.missing)}</div>` : ''}
     ${isStaff() ? `<div style="display:flex;gap:8px"><a class="btn b-ghost" style="flex:1;text-align:center" href="#/match/edit/${m.id}">✏ 수정</a><button class="btn b-red" style="flex:1" onclick="delMatch(${m.id})">삭제</button></div>` : ''}
-    <button class="btn" onclick="share(window._sh)">📤 출석 체크 링크 복사 (위챗에 공유)</button>`);
-  window._sh = `⚽ 출석 체크해 주세요: ${m.title}${m.opponent ? ' vs ' + m.opponent : ''}\n📅 ${d.getMonth()+1}/${d.getDate()}(${WD[d.getDay()]}) ${hm(m.starts_at)} · ${m.venue || ''} · ${m.format}\n현재 참석 ${yes.length}/${m.need}명`;
+    <button class="btn" onclick="share(window._sh)">${ATTEND ? '📤 출석 체크 링크 복사 (위챗에 공유)' : '📤 경기 일정 공유 (위챗)'}</button>
+    <a class="btn b-ghost" style="text-align:center" href="#/matches">📅 캘린더로 돌아가기</a>`);
+  window._sh = ATTEND ? `⚽ 출석 체크해 주세요: ${m.title}${m.opponent ? ' vs ' + m.opponent : ''}\n📅 ${d.getMonth()+1}/${d.getDate()}(${WD[d.getDay()]}) ${hm(m.starts_at)} · ${m.venue || ''} · ${m.format}\n현재 참석 ${yes.length}/${m.need}명`
+    : `⚽ 경기 일정: ${m.title}${m.opponent ? ' vs ' + m.opponent : ''}\n📅 ${d.getMonth()+1}/${d.getDate()}(${WD[d.getDay()]}) ${hm(m.starts_at)} · ${m.venue || ''} · ${m.format}`;
 }
 async function doAttend(id, s){ await api('attend', { id, status:s }); toast(s + '(으)로 체크했습니다'); matchDetail(id) }
 async function delMatch(id){ if(!confirm('이 경기를 삭제할까요? 출석 기록도 함께 지워집니다.')) return; await api('matchDel', { id }); toast('삭제했습니다'); location.hash = '#/matches' }

diff --git a/manual.html b/manual.html
@@ -48,7 +48,7 @@ code{background:#EEF3F8;padding:1px 6px;border-radius:6px;font-size:15px}
 <nav class="toc"><b>📚 차례</b>
   <a href="#s1">1. 처음 시작하기 (가입·로그인)</a>
   <a href="#s2">2. 홈 화면 보기</a>
-  <a href="#s2b">2-1. 경기 일정 · 출석 체크</a>
+  <a href="#s2b">2-1. 경기 일정 (캘린더)</a>
   <a href="#s3">3. 결제 (회장 → 부회장 → 총무)</a>
   <a href="#s3b">3-1. 월별·연간 결산</a>
   <a href="#s4">4. 회의 안건과 회의록</a>
@@ -98,7 +98,7 @@ code{background:#EEF3F8;padding:1px 6px;border-radius:6px;font-size:15px}
   <h3>아래쪽 메뉴</h3>
   <table>
     <tr><th>🏠 홈</th><td>잔액·공지·할 일</td></tr>
-    <tr><th>⚽ 경기</th><td>경기 일정, 출석 체크</td></tr>
+    <tr><th>📅 일정</th><td>경기 일정 캘린더</td></tr>
     <tr><th>💳 결제</th><td>돈을 쓴 내역 전체</td></tr>
     <tr><th>🗓 회의</th><td>회의 안건·회의록</td></tr>
     <tr><th>💬 요청</th><td>회원 건의·요청사항</td></tr>
@@ -109,28 +109,27 @@ code{background:#EEF3F8;padding:1px 6px;border-radius:6px;font-size:15px}
 </section>
 
 <section id="s2b">
-  <h2>2-1. 경기 일정 · 출석 체크</h2>
-  <span class="who">출석 체크: 모든 회원</span> <span class="who g">경기 등록: 운영진</span>
-  <figure><img src="manual/20-matches.jpg" alt="경기 목록" loading="lazy"><figcaption>[⚽ 경기] 메뉴 — 다가오는 경기와 참석 인원</figcaption></figure>
-  <h3>① 출석 체크하기 <span class="who">모든 회원</span></h3>
+  <h2>2-1. 경기 일정 (캘린더)</h2>
+  <span class="who">보기: 모든 회원</span> <span class="who g">등록: 운영진</span>
+  <p>아래 메뉴 <b>[📅 일정]</b>에서 달력으로 경기 일정을 봅니다. <b>초록 점</b>이 있는 날이 경기 날입니다.</p>
   <ol>
-    <li>단톡방의 출석 체크 링크를 누르거나, <b>[⚽ 경기]</b> 메뉴에서 경기를 누릅니다.</li>
-    <li><b>[참석] [불참] [미정]</b> 중 하나를 누르면 끝입니다. 마감 전에는 바꿀 수 있습니다.</li>
-    <li><b>[🗺 고덕지도에서 위치 보기]</b>를 누르면 구장 위치가 고덕지도로 열립니다.</li>
+    <li><b>‹ ›</b> 버튼으로 달을 넘깁니다.</li>
+    <li>날짜를 누르면 그날 경기가 아래에 나옵니다. 그 아래에는 <b>다가오는 경기</b> 목록이 있습니다.</li>
+    <li>경기를 누르면 시간, 구장, 메모가 보이고, <b>[🗺 고덕지도에서 위치 보기]</b>로 위치를 확인할 수 있습니다.</li>
   </ol>
-  <figure><img src="manual/21-match.jpg" alt="경기 상세" loading="lazy"><figcaption>경기 화면 — 필요 인원 대비 참석 인원, 명단이 보입니다</figcaption></figure>
-  <div class="tip">출석 체크는 <b>경기 시작 시간</b>(또는 운영진이 정한 마감 시간)에 자동으로 닫힙니다.</div>
-  <h3>② 경기 등록하기 <span class="who g">운영진</span></h3>
+  <figure><img src="manual/20-matches.jpg" alt="경기 일정 캘린더" loading="lazy"><figcaption>경기 일정 캘린더</figcaption></figure>
+  <figure><img src="manual/21-match.jpg" alt="경기 상세" loading="lazy"><figcaption>경기 상세 화면</figcaption></figure>
+  <div class="tip">출석 체크는 기존에 쓰는 <b>출석 미니프로그램</b>에서 합니다.</div>
+  <h3>경기 등록하기 <span class="who g">운영진</span></h3>
   <ol>
-    <li><b>[⚽ 경기]</b> → 오른쪽 아래 <b>[+ 경기 등록]</b></li>
-    <li>경기 이름, 상대팀, 날짜·시간을 적습니다.</li>
-    <li><b>경기 방식</b>(11인제·9인제 등)을 고르면 <b>필요 인원</b>이 자동으로 채워집니다. 필요하면 숫자를 고칩니다.</li>
+    <li><b>[📅 일정]</b> → 오른쪽 아래 <b>[+ 경기 등록]</b></li>
+    <li>경기 이름, 상대팀, 날짜·시간, <b>경기 방식</b>(11인제·9인제 등)을 적습니다.</li>
     <li><b>구장 이름</b>을 적습니다. 전에 쓴 구장은 목록에서 고르면 주소도 자동으로 채워집니다.</li>
-    <li>(선택) 고덕지도 앱에서 구장 → <b>공유 → 링크 복사</b> 후 <b>'고덕지도 공유 링크'</b> 칸에 붙여넣으면 정확한 위치가 열립니다. 비워 두면 구장 이름으로 검색됩니다.</li>
-    <li><b>[등록하고 회원에게 알림]</b> → 경기 화면의 <b>[📤 출석 체크 링크 복사]</b>로 단톡방에 공유합니다.</li>
+    <li>(선택) 고덕지도 앱에서 구장 → <b>공유 → 링크 복사</b> 후 <b>'고덕지도 공유 링크'</b> 칸에 붙여넣으면 정확한 위치가 열립니다.</li>
+    <li><b>[등록하고 회원에게 알림]</b> → 경기 화면의 <b>[📤 경기 일정 공유]</b>로 단톡방에 알립니다.</li>
   </ol>
   <figure><img src="manual/22-match-new.jpg" alt="경기 등록" loading="lazy"><figcaption>경기 등록 화면</figcaption></figure>
-  <div class="tip">경기 정보가 바뀌면 경기 화면의 <b>[✏ 수정]</b>. 이미 응답한 회원들에게 변경 알림이 갑니다.</div>
+  <div class="tip">🔧 사이트 관리자 참고: 출석 체크 기능은 지워지지 않고 <b>숨겨져</b> 있습니다. <code>index.html</code>의 <code>const ATTEND = false;</code>를 <code>true</code>로 바꾸면 다시 나타납니다.</div>
 </section>
 
 <section id="s3">
@@ -279,7 +278,7 @@ code{background:#EEF3F8;padding:1px 6px;border-radius:6px;font-size:15px}
     <tr><th></th><th>일반 회원</th><th>운영진</th></tr>
     <tr><td>모든 내역 보기</td><td>✅</td><td>✅</td></tr>
     <tr><td>요청사항 쓰기</td><td>✅</td><td>✅</td></tr>
-    <tr><td>투표하기 · 출석 체크</td><td>✅</td><td>✅</td></tr>
+    <tr><td>투표하기</td><td>✅</td><td>✅</td></tr>
     <tr><td>경기 등록·수정</td><td>❌</td><td>✅</td></tr>
     <tr><td>투표 만들기·마감</td><td>❌</td><td>✅</td></tr>
     <tr><td>결제안·회의 안건 올리기</td><td>❌</td><td>✅</td></tr>
